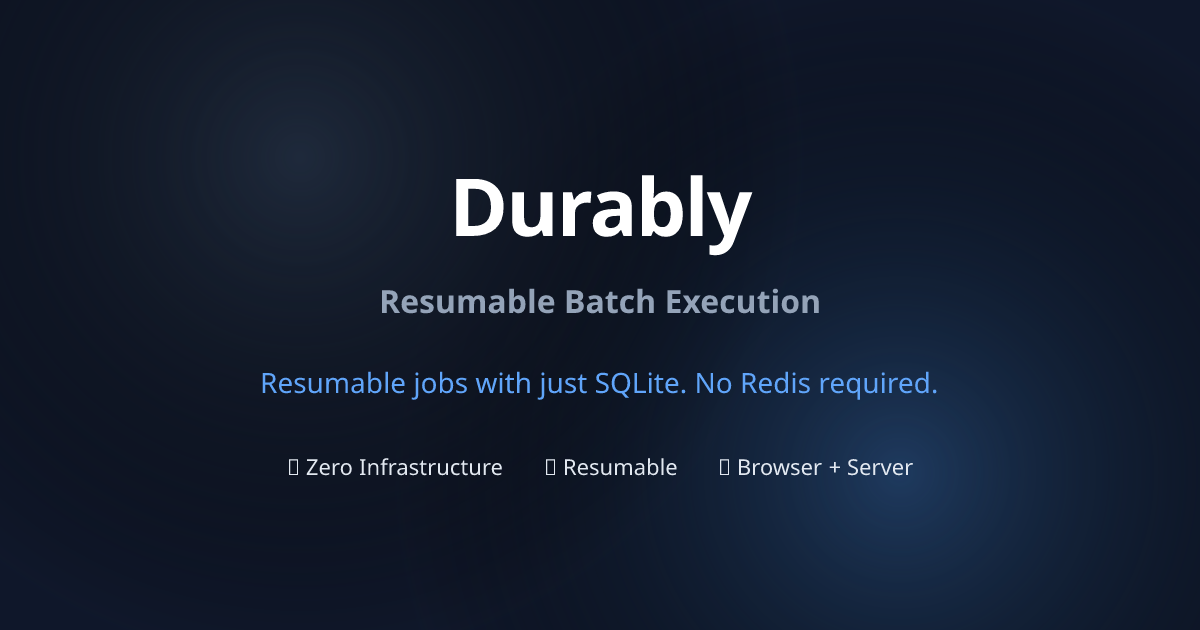
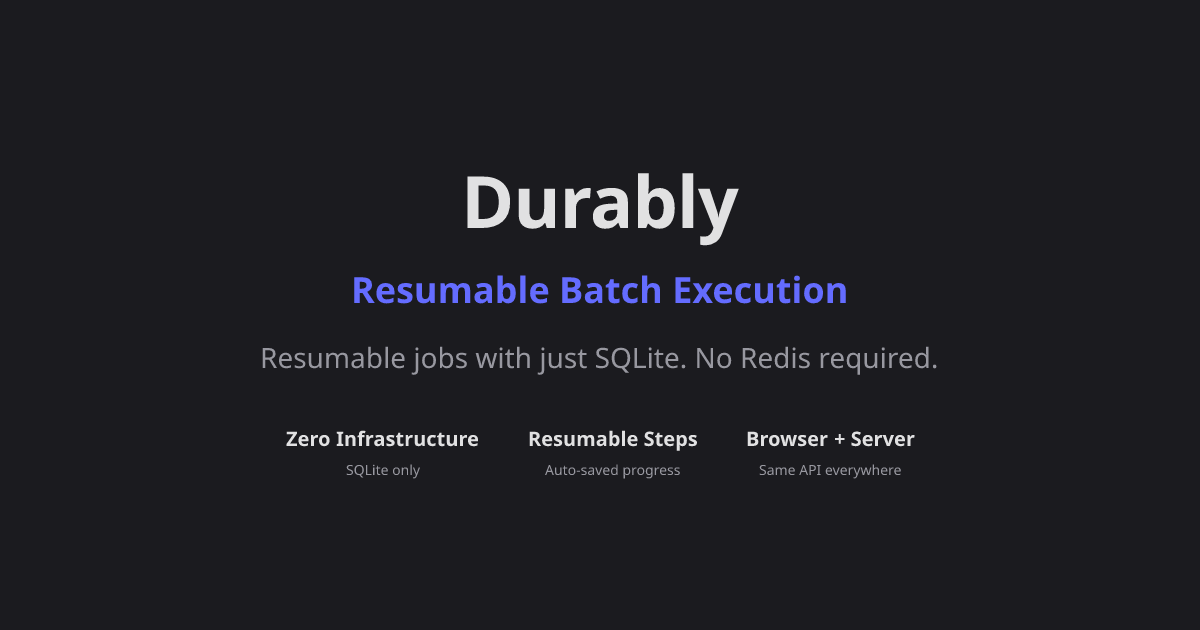
style(website): match OGP image to VitePress theme
- Use VitePress default dark theme colors (#1b1b1f, #646cff)
- Remove emojis for cleaner appearance
- Add feature subtitles for more context

🤖 Generated with [Claude Code](https://claude.com/claude-code)

Changed region(s): [[0.2158, 0.4222, 0.8942, 1.0], [0.37, 0.2714, 0.6475, 0.4222], [0.2158, 0.2111, 0.2775, 0.3016]]

diff --git a/website/scripts/generate-og-image.js b/website/scripts/generate-og-image.js
@@ -26,6 +26,12 @@ async function generateOgImage() {
     ),
   ])
 
+  // VitePress default theme colors
+  const brandColor = '#646cff' // VitePress brand purple
+  const bgColor = '#1b1b1f' // VitePress dark bg
+  const textColor = 'rgba(255, 255, 255, 0.87)'
+  const mutedColor = 'rgba(235, 235, 245, 0.6)'
+
   const svg = await satori(
     {
       type: 'div',
@@ -37,9 +43,7 @@ async function generateOgImage() {
           flexDirection: 'column',
           alignItems: 'center',
           justifyContent: 'center',
-          backgroundColor: '#0f172a',
-          backgroundImage:
-            'radial-gradient(circle at 25% 25%, #1e293b 0%, transparent 50%), radial-gradient(circle at 75% 75%, #1e3a5f 0%, transparent 50%)',
+          backgroundColor: bgColor,
           padding: '60px',
         },
         children: [
@@ -47,34 +51,23 @@ async function generateOgImage() {
             type: 'div',
             props: {
               style: {
-                display: 'flex',
-                alignItems: 'center',
-                marginBottom: '20px',
+                fontSize: '72px',
+                fontWeight: 700,
+                color: textColor,
+                letterSpacing: '-1px',
+                marginBottom: '16px',
               },
-              children: [
-                {
-                  type: 'div',
-                  props: {
-                    style: {
-                      fontSize: '80px',
-                      fontWeight: 700,
-                      color: '#ffffff',
-                      letterSpacing: '-2px',
-                    },
-                    children: 'Durably',
-                  },
-                },
-              ],
+              children: 'Durably',
             },
           },
           {
             type: 'div',
             props: {
               style: {
-                fontSize: '32px',
+                fontSize: '36px',
                 fontWeight: 600,
-                color: '#94a3b8',
-                marginBottom: '40px',
+                color: brandColor,
+                marginBottom: '24px',
               },
               children: 'Resumable Batch Execution',
             },
@@ -84,9 +77,10 @@ async function generateOgImage() {
             props: {
               style: {
                 fontSize: '28px',
-                color: '#60a5fa',
+                color: mutedColor,
                 textAlign: 'center',
-                maxWidth: '900px',
+                maxWidth: '800px',
+                lineHeight: 1.4,
               },
               children: 'Resumable jobs with just SQLite. No Redis required.',
             },
@@ -96,8 +90,8 @@ async function generateOgImage() {
             props: {
               style: {
                 display: 'flex',
-                marginTop: '50px',
-                gap: '40px',
+                marginTop: '48px',
+                gap: '48px',
               },
               children: [
                 {
@@ -105,11 +99,33 @@ async function generateOgImage() {
                   props: {
                     style: {
                       display: 'flex',
+                      flexDirection: 'column',
                       alignItems: 'center',
-                      color: '#e2e8f0',
-                      fontSize: '22px',
+                      gap: '8px',
                     },
-                    children: '🚀 Zero Infrastructure',
+                    children: [
+                      {
+                        type: 'div',
+                        props: {
+                          style: {
+                            fontSize: '20px',
+                            fontWeight: 600,
+                            color: textColor,
+                          },
+                          children: 'Zero Infrastructure',
+                        },
+                      },
+                      {
+                        type: 'div',
+                        props: {
+                          style: {
+                            fontSize: '14px',
+                            color: mutedColor,
+                          },
+                          children: 'SQLite only',
+                        },
+                      },
+                    ],
                   },
                 },
                 {
@@ -117,11 +133,33 @@ async function generateOgImage() {
                   props: {
                     style: {
                       display: 'flex',
+                      flexDirection: 'column',
                       alignItems: 'center',
-                      color: '#e2e8f0',
-                      fontSize: '22px',
+                      gap: '8px',
                     },
-                    children: '🔄 Resumable',
+                    children: [
+                      {
+                        type: 'div',
+                        props: {
+                          style: {
+                            fontSize: '20px',
+                            fontWeight: 600,
+                            color: textColor,
+                          },
+                          children: 'Resumable Steps',
+                        },
+                      },
+                      {
+                        type: 'div',
+                        props: {
+                          style: {
+                            fontSize: '14px',
+                            color: mutedColor,
+                          },
+                          children: 'Auto-saved progress',
+                        },
+                      },
+                    ],
                   },
                 },
                 {
@@ -129,11 +167,33 @@ async function generateOgImage() {
                   props: {
                     style: {
                       display: 'flex',
+                      flexDirection: 'column',
                       alignItems: 'center',
-                      color: '#e2e8f0',
-                      fontSize: '22px',
+                      gap: '8px',
                     },
-                    children: '🌐 Browser + Server',
+                    children: [
+                      {
+                        type: 'div',
+                        props: {
+                          style: {
+                            fontSize: '20px',
+                            fontWeight: 600,
+                            color: textColor,
+                          },
+                          children: 'Browser + Server',
+                        },
+                      },
+                      {
+                        type: 'div',
+                        props: {
+                          style: {
+                            fontSize: '14px',
+                            color: mutedColor,
+                          },
+                          children: 'Same API everywhere',
+                        },
+                      },
+                    ],
                   },
                 },
               ],
